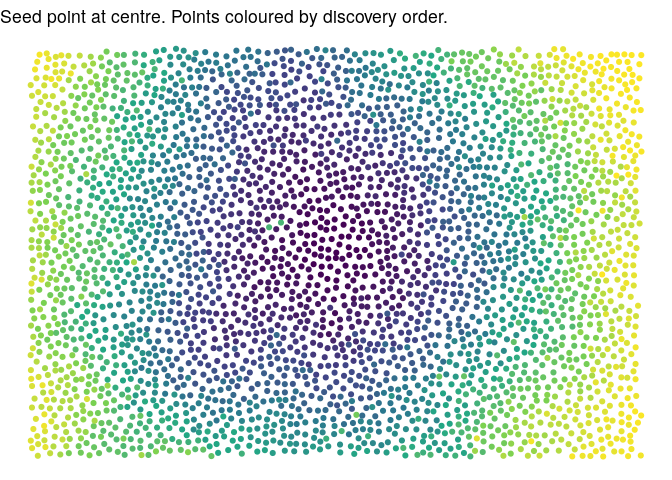
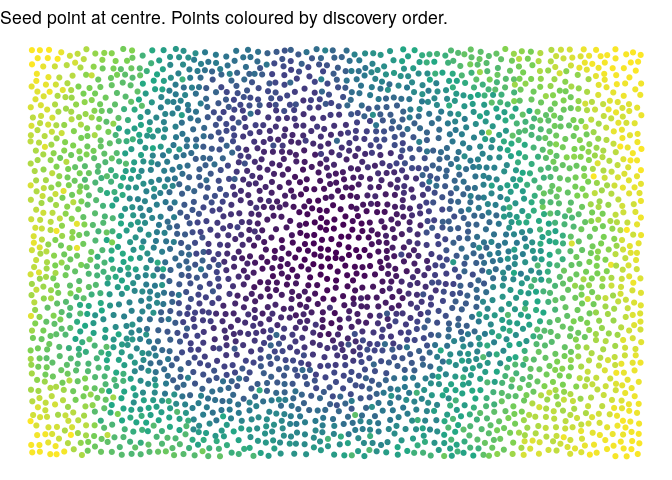
remove tilability option

diff --git a/README.md b/README.md
@@ -48,49 +48,6 @@ ggplot(points) +
 
 <img src="man/figures/README-example-1.png" width="100%" />
 
-# Tileability
-
-The points generated from `poissoned::poisson_disc()` are tileable in
-that there should be minimal artifacts at the joins.
-
-In the graph below, the initial set of points (highlighted in blue) was
-manually replicated and offset eight times.
-
-    #> Warning: `as.tbl()` was deprecated in dplyr 1.0.0.
-    #> ℹ Please use `tibble::as_tibble()` instead.
-    #> Call `lifecycle::last_lifecycle_warnings()` to see where this warning was
-    #> generated.
-
-<img src="man/figures/README-unnamed-chunk-2-1.png" width="100%" />
-
-# Tileability - details
-
-Tileability is achieved by copying edge points to outside the opposite
-edge - this simulates a toroidal coordinate system such that the canvas
-wraps around on itself.
-
-These boundary points are retrievable by setting `keep_boundary = TRUE`.
-
-In the following plot, the dashed line indicates the limits of the point
-set, and the blue points are translated points copied from the opposite
-edge.
-
-``` r
-points <- poissoned::poisson_disc(ncols = 15, nrows = 10, cell_size = 20, 
-                                  keep_boundary = TRUE, verbose = TRUE)
-#> poisson_disc(): 300x200, minimum distance = 28.28
-
-ggplot(points) +
-  geom_rect(xmin = 0, xmax = 300, ymin = 0, ymax = 200, fill = NA, colour = '#a0a0a0', linetype = 2) + 
-  geom_point(aes(x, y, colour = boundary), size = 5) +
-  theme_void() +
-  coord_fixed() +
-  theme(legend.position = 'none') +
-  labs(title = "Blue points are points used to enforce a boundary condition to ensure \noutput point set is tileable")
-```
-
-<img src="man/figures/README-tileability_details-1.png" width="100%" />
-
 # Point discovery order
 
 New points are generated through an iterative process. `poisson_disc()`
@@ -107,7 +64,7 @@ points <- poissoned::poisson_disc(ncols = 120, nrows = 80, cell_size = 10,
 #> poisson_disc(): 1200x800, minimum distance = 14.14
 
 nrow(points)
-#> [1] 3223
+#> [1] 3257
 
 ggplot(points) +
   geom_point(aes(x, y, colour = idx)) +

diff --git a/NEWS.md b/NEWS.md
@@ -1,6 +1,7 @@
 # poissoned 0.1.2.9000
 
-* Refactor
+* [9000] Refactor
+* [9000] Remove ability to create tile-able points
 
 # poissoned 0.1.2
 
